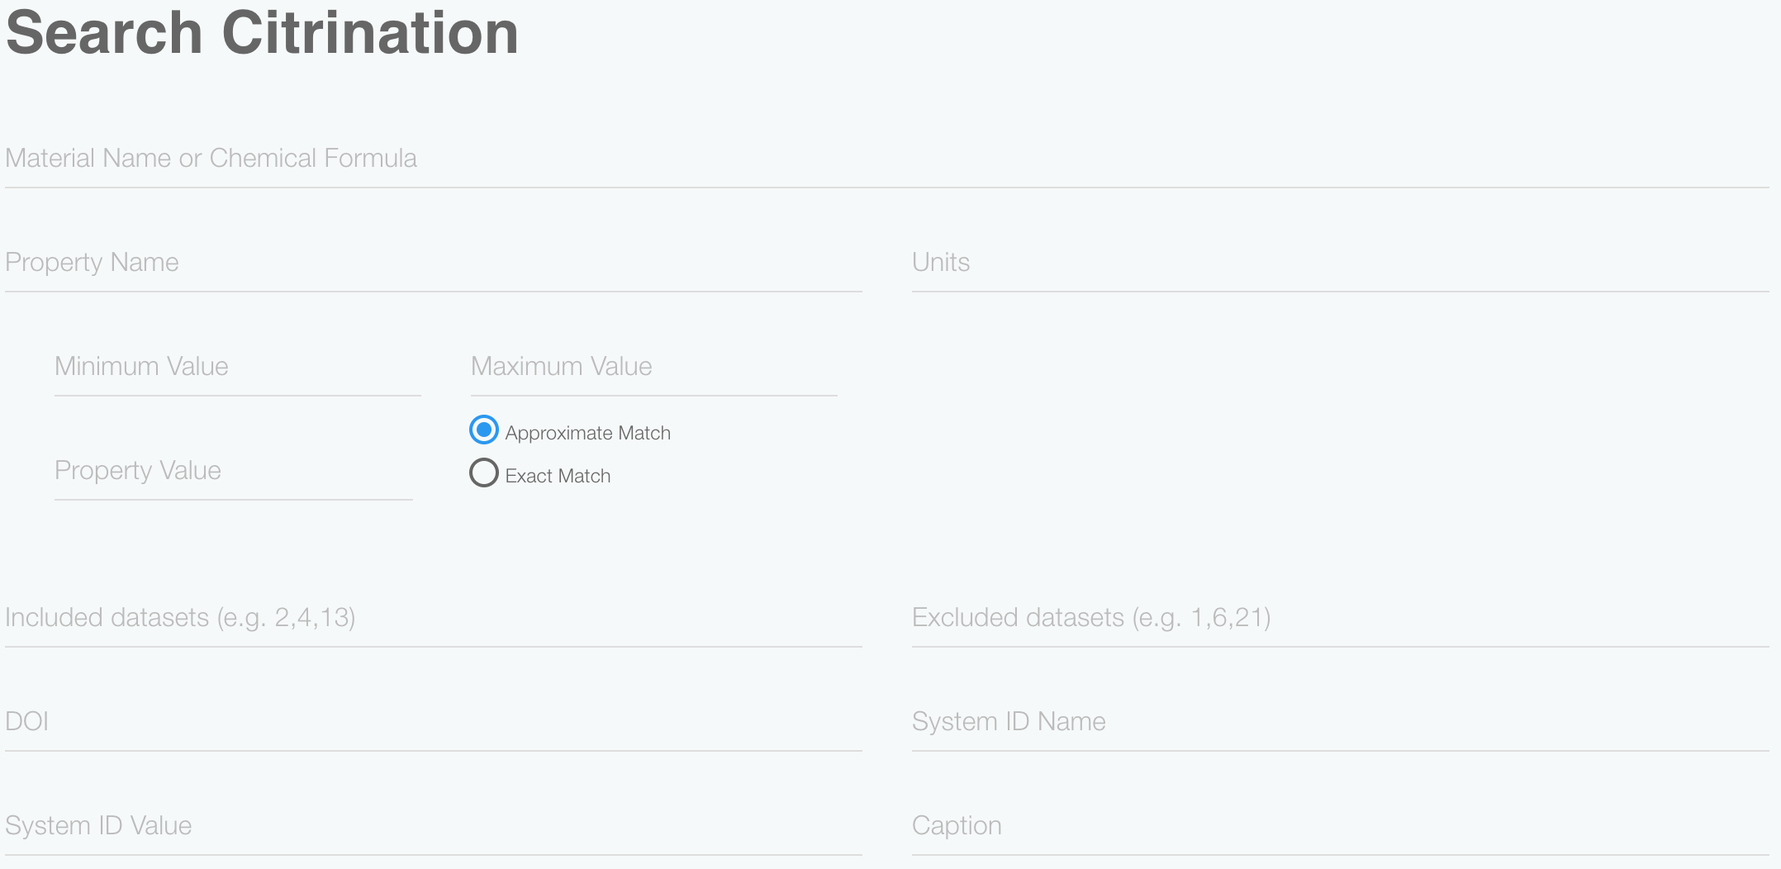
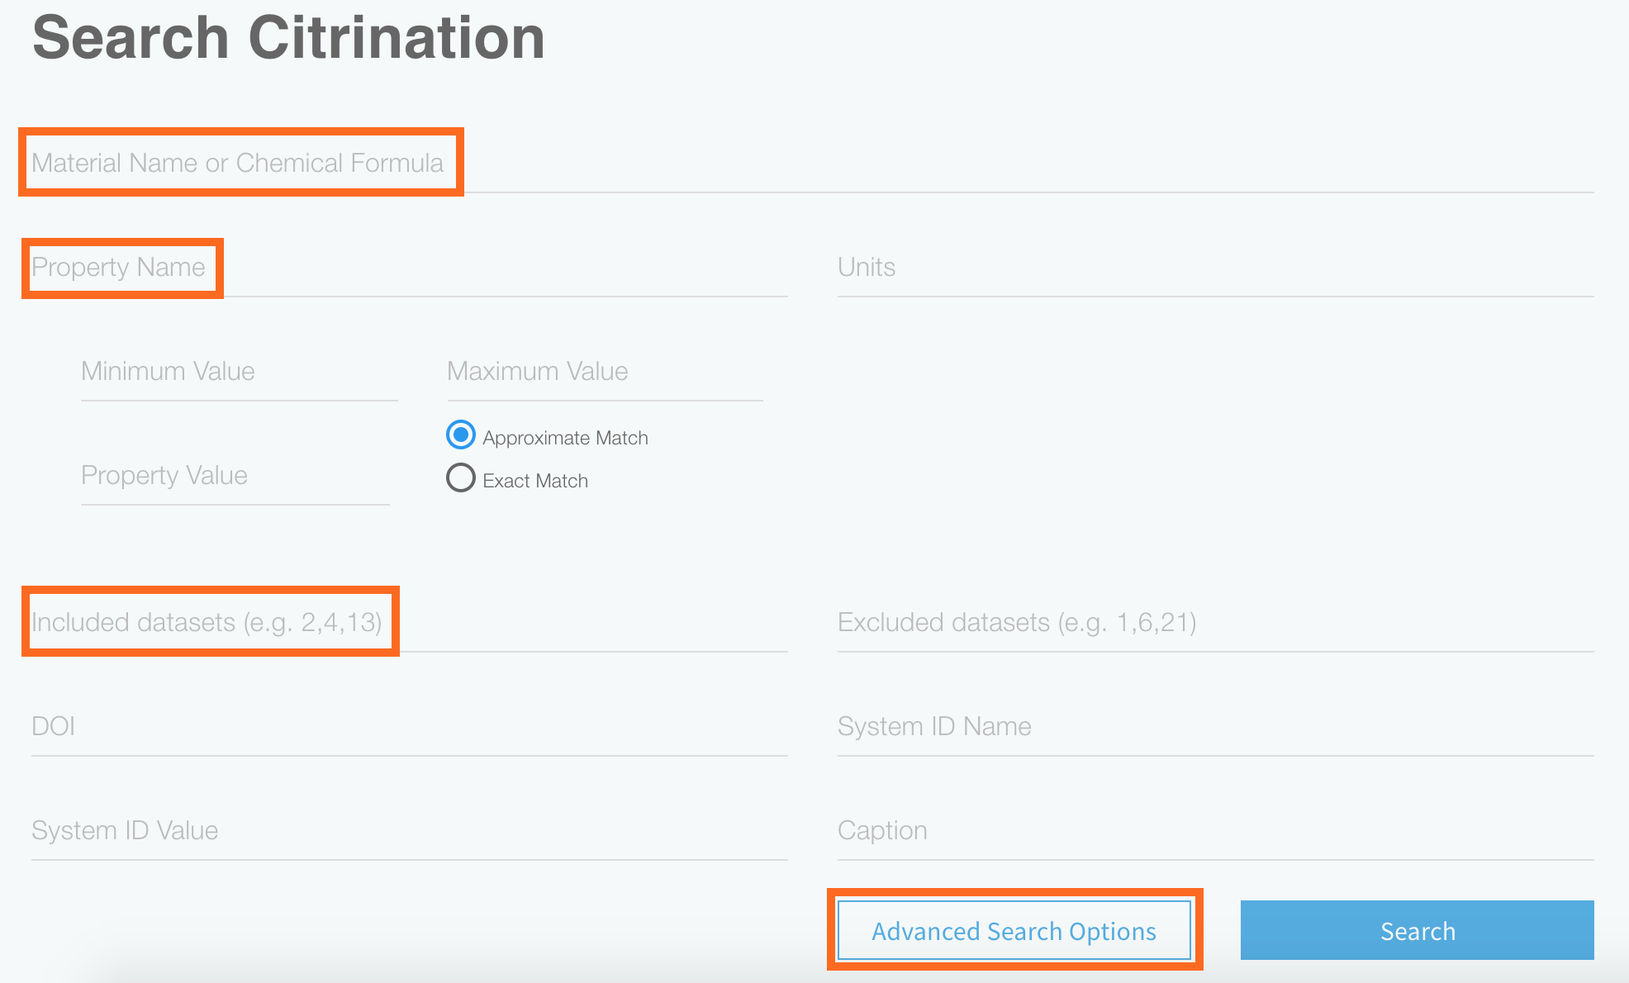
figures and updates to all \ ML

diff --git a/web_ui_examples/03_data_views.md b/web_ui_examples/03_data_views.md
@@ -1,10 +1,10 @@
 # Data Views
 *Authors: Enze Chen*
 
-In this document, we will cover how to create a Data View ("View" for short) on Citrination using the web UI. Views provide a way for users to aggregate the information in a dataset(s) and present it in a more visually appealing way (matrix, plots, etc.). Views also enable [machine learning (ML) services](06_machine_learning.md), which we will cover in a later guide.
+In this guide, we will cover how to create a Data View ("View" for short) on Citrination using the web UI. Views provide a way for users to aggregate the information in a dataset(s) and present it in a more visually appealing way (matrix, plots, etc.). Views also enable [machine learning (ML) services](06_machine_learning.md), which we will cover in a later guide.
 
 ## Learning outcomes
-After reading this document, you should feel comfortable with:
+After reading this guide, you should feel comfortable with:
 * Creating new Views using the Citrination UI
 * Inspecting data in matrix and plots formats
 
@@ -17,7 +17,7 @@ To get the most out of this guide, it is helpful to be familiar with:
 * [Datasets](02_data_management.md) on Citrination.
 
 ## Data Views page
-Views on Citrination can be accessed through the "Data Views" menu option, which takes you to the page below:   
+Views on Citrination can be accessed through the "[Data Views](https://citrination.com/data_views)" menu option, which takes you to the page below:   
 
 ![Views page](fig/21_views_page.png "Views page")   
 
@@ -28,17 +28,17 @@ Since Views are built from datasets, the first step in Views creation is selecti
 
 ![Select dataset](fig/22_select_dataset.png "Select dataset")   
 
-You have the option to search for specific datasets and select the relevant ones by clicking the boxes on the left. The UI will display how many PIF records are in each dataset. After you have selected at least one dataset, the "NEXT" button at the top will turn blue and clicking it will take you to the next page.   
+You have the option to search for specific datasets and select the relevant ones by clicking the boxes on the left. The UI will display how many PIF records are in each dataset. After you have selected at least one dataset, the "NEXT" button at the top will turn blue and clicking it will take you to the next page. For now, click on "My Datasets" and try to find the example dataset that you created.
 
 ### Select columns
 ![Select columns](fig/23_select_columns.png "Select columns")   
 
-From the datasets, Citrination will extract the chemical formula and properties that appear, along with the number of PIF records that have each property (though not how the counts correspond). You have to select at least one of the properties to be a column in your View, and the "Include All" button is a shortcut for selecting everything. After you've selected the desired columns, the "NEXT" button will be enabled, taking you to the next page.
+From the datasets, Citrination will extract the chemical formula and properties that appear, along with the number of PIF records that have each property (though not how the counts correspond). You have to select at least one of the properties to be a column in your View, and the "Include All" button is a shortcut for selecting everything. After you've selected the desired columns, which should be all of them, the "NEXT" button will be enabled, taking you to the next page.
 
 ### View summary
 ![View summary](fig/24_view_summary.png "View summary")   
 
-The next page is the View summary, where you can give your View a name and description. It also shows which datasets are included in this View, so that is a good sanity check. You will have the option to edit the name and description fields later. When everything looks good, you must click "SAVE" to finish making the View.
+The next page is the View summary, where you can give your View a name and description. It also shows which datasets are included in this View, so that is a good sanity check. You will have the option to edit the name and description fields later, so pick something you can remember for now (e.g. "An Example View"). When everything looks good, you must click "SAVE" to finish making the View.
 
 
 ### Configure ML
@@ -49,10 +49,33 @@ At this point, the UI will turn dark and the following pop-up will appear:
 You have the option of training ML models now, or later. Since this is a fairly involved process, we'll cover it in [a subsequent guide](06_machine_learning.md), and select "Later" for now.
 
 ## View matrix
-Congratulations on making your first View!
+Congratulations on making your first View! If you're not automatically redirected to the View, then you should be able to find it in your list of [Data Views](https://citrination.com/data_views). The first page that pops up should be the matrix display:
 
 <img src="https://github.com/CitrineInformatics/community-tools/blob/enze/ui-tutorials/web_ui_examples/fig/26_view_matrix.png" alt="View matrix" width="700" height="521">  
 
+Here, each PIF record is displayed as a row in the table, and each property that you configured for the View is its own column. If a PIF record is missing a property, then that cell is blank. Individual PIF records can be accessed with the "View" button in each row.
+
+At the top, there are the following options:
+* **Summary**: This shows the same summary information during View creation, and you'll have the option of editing the name and description.
+* **ML Configuration**: This allows you to configure ML and train models using this View.
+* **Access**: This gives you the option of changing the Privacy settings of your View.
+
+## View plots
+Under the View name, the plots tab leads to a page like the following:
+
 ![View plot config](fig/27_view_plots1.png "View plot config")
 
+There are many different plot types that you can choose from, including line plots, scatter plots, and histograms. The "Point Hover Values" specifies what information is displayed when your cursor hovers over a data point, and "Number of Responses" specifies how many data points to show. Depending the plot type, the subsequent settings will change.
+
+In this example, we will plot a histogram of band gap values in this dataset, so we select "Band gap" for the x-axis. This produces a plot (backed by [Plotly](https://plot.ly/)) that looks like the following:
+
 <img src="https://github.com/CitrineInformatics/community-tools/blob/enze/ui-tutorials/web_ui_examples/fig/27_view_plots2.png" alt="View histogram" width="450" height="422">  
+
+## Conclusion
+This concludes our discussion of how to create Data Views on the Citrination platform. As mentioned earlier, you should now feel comfortable with:
+* Creating new Views using the Citrination UI
+* Inspecting data in matrix and plots formats
+
+When you're ready to move on, the next step will be to [Configure ML](06_machine_learning.md)!
+
+If you have further questions, please do not hesitate to [Contact Us](https://citrine.io/contact/).

diff --git a/web_ui_examples/06_machine_learning.md b/web_ui_examples/06_machine_learning.md
@@ -1,4 +1,77 @@
 # Machine Learning
 *Authors: Enze Chen*
 
-In this document, we will cover how to construct a machine learning (ML) model for a Data View using the Citrination web UI.
+In this guide, we will cover how to configure a machine learning (ML) model from a data view using the Citrination web UI. ML is an automated process that identifies relationships in your data between a set of inputs and a set of outputs. The Citrination platform simplifies the user experience and generates powerful ML models with informative reports for analysis. Building a ML model also enables [Prediction and Design](07_predict_design.md), which is covered in a later guide.
+
+## Learning outcomes
+After reading this guide^, you should be familiar with:
+* Choosing the set of inputs and output for a ML model
+* Assessing model quality through Model Reports     
+^*Note*: This guide is dense and will likely take many read-throughs before things start to fully click. Turns out, ML is [h](https://machinelearningmastery.com/applied-machine-learning-is-hard/)[a](https://developers.google.com/machine-learning/problem-framing/hard)[r](http://ai.stanford.edu/~zayd/why-is-machine-learning-hard.html)[d](https://www.forbes.com/sites/janakirammsv/2018/01/01/why-do-developers-find-it-hard-to-learn-machine-learning/#7d62eccf6bf6); when applied to materials science, it might be [even harder](https://youtu.be/28Ue_jteKI4?t=254).
+
+## Background knowledge
+To get the most out of this guide, it is helpful to be familiar with:
+* How to create [data views](https://citrination.com/data_views/) on Citrination ([guide](03_data_view.md)).
+* Basic machine learning. This is understandably vague and requires prerequisites in and of itself.
+  * [This YouTube video](https://www.youtube.com/watch?v=nWk6QlwvXok), made by Julia Ling, gives an introduction to ML for materials science.
+  * [This visual](http://www.r2d3.us/visual-intro-to-machine-learning-part-1/) is also a gentle introduction.
+
+## Configure ML
+You might recall in the [Data Views guide](03_data_views.md) that we deferred configuring ML services at the time—this guide picks up right where we left off. If you navigate to the view you created, and click on "Machine Learning Configuration," you will be asked to set column types for each of the properties in your view.
+
+![ML config](fig/51_ml_config.png "ML config")
+
+It is helpful to expand the description ("Show More") and read about the various parameters on this page. Down below, each property has its Descriptor Type (Categorical, Real, Organic, Inorganic, Alloy), Parameter Type (Input, Output, Latent variable, Ignore), and Values listed. If you would like to change a setting, click "edit" next to the corresponding property. We'll do this for "Property Crystallinity" because we want it as an Input rather than Output.
+
+![Set columns](fig/52_set_col_types.png "Set columns")
+
+The above menu will open up, allowing you to change the Variable Type to "Input." Depending on the Descriptor Type, this menu will show different options. *Categorical* descriptors will have all the categories listed for you to include (all are included by default), while *Real* descriptors will have a range of values for you to include. When you're all done—the other properties are fine, though you should always check each one—click "Okay" to collapse the menu, and finally "Save" at the very top.
+
+## Model training
+"Training" is the term that refers to a ML model learning the relationships in the data given. Blue progress bars will display at the top of your screen indicating which step it's currently on.
+
+![Model training](fig/55_model_training.png "Model training")
+
+Green boxes will appear at the top of the page informing you of when certain services are ready. Some services, like Model Reports, take longer than others, like Predict services. While you're waiting, if you navigate to the **Summary** page for your view, you will see the column headers listed with their configured settings for ML. You can always return to the Configuration page to change the property types.
+
+![ML summary](fig/53_ml_summary.png "ML summary")
+
+## Model reports
+
+![Reports summary](fig/54_reports_summary.png "Reports summary")
+
+
+### Feature statistics
+
+![Pearson correlation](fig/54_reports_pearson.png "Pearson correlation")
+
+
+![t-SNE plot](fig/54_reports_tsne.png "t-SNE plot")
+
+
+### Model performance
+
+![Model summary](fig/55_model_summary.png "Model summary")
+
+
+![Feature importance](fig/55_model_features.png "Feature importance")
+
+
+![Model performance](fig/55_model_performance.png "Model performance")
+
+
+### Performance plots
+
+![Predicted vs. Actual plot](fig/56_plot_pva.png "Predicted vs. Actual plot")
+
+
+![Distribution of residuals](fig/56_plot_residual.png "Distribution of residuals")
+
+
+
+## Conclusion
+Whew! This concludes our lengthy discussion of ML on Citrination. At this point, you should be familiar with:
+* Choosing the set of inputs and output for a ML model
+* Assessing model quality through Model Reports
+
+With your ML model in hand, you're now equipped to perform [Prediction and Design](07_predict_design.md) services through the UI. These are core elements of [Citrine's sequential learning framework](https://citrine.io/platform/sequential-learning/) and enable you to leverage the power of materials informatics to do better research, faster. As always, if you have further questions, please do not hesitate to [Contact Us](https://citrine.io/contact/).

diff --git a/web_ui_examples/02_data_management.md b/web_ui_examples/02_data_management.md
@@ -1,10 +1,10 @@
 # Data Management
 *Authors: Enze Chen*
 
-In this document, we will cover how to create datasets on Citrination, how to upload data to these datasets, and how the data is formatted on the web UI. For demonstration purposes, we will be working with a subset of the full [Band gaps from Strehlow and Cook](https://citrination.com/datasets/1160/) dataset.
+In this guide, we will cover how to create datasets on Citrination, how to upload data to these datasets, and how the data is formatted on the web UI. For demonstration purposes, we will be working with a subset of the full [Band gaps from Strehlow and Cook](https://citrination.com/datasets/1160/) dataset.
 
 ## Learning outcomes
-After reading this document, you should feel comfortable with:
+After reading this guide, you should feel comfortable with:
 * Uploading new data to datasets on Citrination
 * Viewing and managing datasets on Citrination
 * Reading PIF records on Citrination
@@ -52,7 +52,7 @@ The final step is to choose the files containing the data you want to upload. As
 
 ### YOUR TURN
 The data for this example is stored in the `data` folder in this directory.   
-1. You should create a new dataset and choose a name and description.
+1. You should create a new dataset and choose a name ("An Example Dataset," perhaps) and description.
 2. Choose the "Default Ingester," which takes PIF JSON files and converts them into PIF records.
 3. Choose the `band_gap_sc_data.json` file, which should have 11 PIF records.
 4. Click "Submit Files."
@@ -68,7 +68,9 @@ You will also notice a dataset ID number that is assigned to this dataset. In be
 
 The box on the right lists all the [Data Views](03_data_views.md) that include this dataset. Down below, on the "Search in Dataset" page, you will see a similar search interface as the main page, just with the PIF records limited to those in this dataset. You should see 11 PIF records at the moment.
 
-At the top, "Files" lists all the files in this dataset, including information on who contributed them, their ingest status, and the option to delete them. There is an "Add Files" button that we will return to shortly. Moving across the top, we come to the "Access" button. On this page you have the option of changing the Privacy setting of your dataset as well as sharing the dataset with different [Teams](05_teams.md).
+At the top, "Files" lists all the files in this dataset, including information on who contributed them, their ingest status, and the option to delete them. There is an "Add Files" button that we will return to shortly.
+
+Moving across the top, we come to the "Access" button. On this page you have the option of changing the Privacy setting of your dataset as well as sharing the dataset with different [Teams](05_teams.md). https://stuff_about_public_data.com
 
 ### YOUR TURN
 11 PIF records are not that many. Let's add some more!    
@@ -95,4 +97,4 @@ This concludes our discussion of how to manage datasets on the Citrination platf
 * Viewing and managing datasets on Citrination
 * Reading PIF records on Citrination
 
-When you're ready to move on, feel free to look at either the [Data Views](03_data_views.md) or [Searching Citrination](04_search.md) guides.
+When you're ready to move on, feel free to look at either the [Data Views](03_data_views.md) or [Searching Citrination](04_search.md) guides. If you have further questions, please do not hesitate to [Contact Us](https://citrine.io/contact/).

diff --git a/web_ui_examples/05_teams.md b/web_ui_examples/05_teams.md
@@ -1,9 +1,45 @@
 # Teams
 *Authors: Enze Chen*
 
-In this document, we will cover how to create Teams on Citrination using the web UI.
+In this guide, we will cover how to create Teams on Citrination using the web UI. Teams allow you to share datasets and data views among a select group of people without having to make your resource Public to everyone. On the [Teams page](https://citrination.com/teams) you can also monitor contributions and the types of resources shared with the team.
 
+## Learning outcomes
+After reading this guide, you should feel comfortable:
+* Creating new teams on Citrination
+* Adding datasets and data views to teams
+
+## Teams page
+Clicking the "Teams" menu option will take you to the main page:
 
 ![My teams](fig/41_my_teams.png "My teams")
+
+The page lists all the teams you are in, including your affiliation (Member or Owner). To create a new team, click **Create A New Team** in the top-right corner.
+
+### Create a new team
 ![Create team](fig/42_create_team.png "Create team")
-![Team resources](fig/43_team_resources.png "Team resources")
+
+Teams are required to have a name and description. At this point, you also have the option of adding team members, but this can also be done later. When you're all set, click "Create Team" to create the team.
+
+## Team dashboard
+The main page is the Dashboard, which looks like the following:
+
+![Team dashboard](fig/43_team_dashboard.png "Team dashboard")
+
+The top half displays the top 5 contributors by percentage, and you can select between the time ranges of Week, Month, or All Time. The bottom half also lists contributors and statistics, such as the total number of files, datasets, and PIF records.
+
+## Team members
+The next tab on your team page is the Members list.
+
+![Team members](fig/44_team_members.png "Team members")
+
+On this page, you can see the team owner and members. You also have the option to add more contributors by clicking the button on the right.
+
+## Team resources
+The third tab lists resources shared with the team. This includes datasets and data views, which are toggled by the subheading on the resources page, as shown below:
+
+![Team resources](fig/45_team_resources.png "Team resources")
+
+Clicking on the name of the resource will take you to that resource's page. As described in the image above, you can use the **Access** page for each resource to add that resource to a team.
+
+## Conclusion
+This concludes our discussion of how to create and manage Teams using the Citrination UI.  If you have further questions, please do not hesitate to [Contact Us](https://citrine.io/contact/).

diff --git a/web_ui_examples/04_search.md b/web_ui_examples/04_search.md
@@ -1,8 +1,32 @@
 # Search
 *Authors: Enze Chen*
 
-In this document, we will cover how to search for data on Citrination using the web UI.
+In this guide, we will cover how to search for data on Citrination using the web UI.
 
+## Learning outcomes
+After reading this guide, you should feel comfortable:
+* Searching for PIF records using the Citrination UI.
 
+## Background knowledge
+To get the most out of this guide, it is helpful to be familiar with:
+* The Physical Information File (PIF) format. This is how data is stored in Citrination, and it is our recommended format for any materials data.
+  * [Documentation](http://citrineinformatics.github.io/pif-documentation/schema_definition/index.html)
+  * [Publication](https://www.cambridge.org/core/journals/mrs-bulletin/article/beyond-bulk-single-crystals-a-data-format-for-all-materials-structurepropertyprocessing-relationships/AADBAEDA62B0391D708CF02269989E8B)
+  * [Example](https://github.com/CitrineInformatics/learn-citrination/blob/master/AdvancedPif.ipynb)
+* [Datasets](02_data_management.md) on Citrination.
 
-![Advanced search](fig/31_advanced_search.png "Advanced search")
+## Search page
+The [Search page](https://citrination.com/search/simple) is the default page when accessing Citrination, and the following options appear when you click on "Advanced Search Options":
+
+![Advanced search](fig/31_advanced_search.png "Advanced search")  
+
+As you can see, there is tremendous flexibility in how search queries are constructed. With the large amount of data on our platform, this will help you narrow down your options to obtain exactly the data you need. Some important fields to note are:
+* **Material Name or Chemical Formula**: This will return all PIF records that match the name or formula.
+* **Property Name**: This will return all PIF records that have the specified Property. Names are *case-insensitive*, but no wildcard searches are allowed (using asterisks).
+* **Included datasets**: This will only search among the records in the specified datasets.
+  * If you're only searching through one dataset, you can also use the search functionality on that dataset's page.
+
+When "Search" is pressed, any relevant records are returned at the bottom.
+
+## Conclusion
+This concludes our short discussion of how to search for data using the Citrination UI. If you have further questions, please do not hesitate to [Contact Us](https://citrine.io/contact/).

diff --git a/web_ui_examples/07_predict_design.md b/web_ui_examples/07_predict_design.md
@@ -1,4 +1,43 @@
-# Machine Learning
+# Predict and Design
 *Authors: Enze Chen*
 
-In this document, we will cover how to use the Predict and Design interfaces on the Citrination web UI.
+In this document, we will cover how to use the Predict and Design interfaces on the Citrination web UI. These services are enabled once you have constructed a machine learning (ML) model and they can be accessed from the data view page.
+
+## Learning outcomes
+After reading this guide, you should feel comfortable with:
+* Making predictions with the UI
+* Setting design parameters with the UI
+* Finding the best performing materials and the best experiments to perform next
+
+## Background knowledge
+To get the most out of this guide, it is helpful to be familiar with:
+* How to train [ML models](06_machine_learning.md) on Citrination
+
+## Predict
+
+![Predict input](fig/61_predict_input.png "Predict input")
+
+![Predict plot](fig/62_predict_plot.png "Predict plot")
+
+
+## Design
+
+![Design settings 1](fig/63_design_settings1.png "Design settings 1")
+
+![Design settings 2](fig/63_design_settings2.png "Design settings 2")
+
+![Design MEI](fig/64_design_mei.png "Design MEI")
+
+![Design MLI](fig/64_design_mli.png "Design MLI")
+
+![Design history](fig/65_design_history.png "Design history")
+
+
+## Conclusion
+
+This wraps up our discussion of the Predict and Design interfaces on the Citrination UI. At this point, you should feel comfortable with:
+* Making predictions with the UI
+* Setting design parameters with the UI
+* Finding the best performing materials and the best experiments to perform next
+
+If you have further questions, please do not hesitate to [Contact Us](https://citrine.io/contact/).

diff --git a/web_ui_examples/01_access_general.md b/web_ui_examples/01_access_general.md
@@ -1,10 +1,10 @@
 # Access and General Information
 *Authors: Enze Chen*
 
-In this document, we will cover the login process to the [Citrination platform](https://citrination.com/) and some general information about the site.
+In this guide, we will cover the login process to the [Citrination platform](https://citrination.com/) and some general information about the site.
 
 ## Learning outcomes
-After reading this document, you should feel comfortable with:
+After reading this guide, you should feel comfortable with:
 * Logging in to Citrination
 * Knowing how to access account information
 * Knowing where to look for help
@@ -55,4 +55,4 @@ This concludes our discussion of the administrivia of the Citrination platform. 
 * Knowing how to access account information
 * Knowing where to look for help
 
-When you're ready to move on, feel free to look at either the [Data Management](02_data_management.md) or [Searching Citrination](04_search.md) guides.
+When you're ready to move on, feel free to look at either the [Data Management](02_data_management.md) or [Searching Citrination](04_search.md) guides. If you have further questions, please do not hesitate to [Contact Us](https://citrine.io/contact/).
